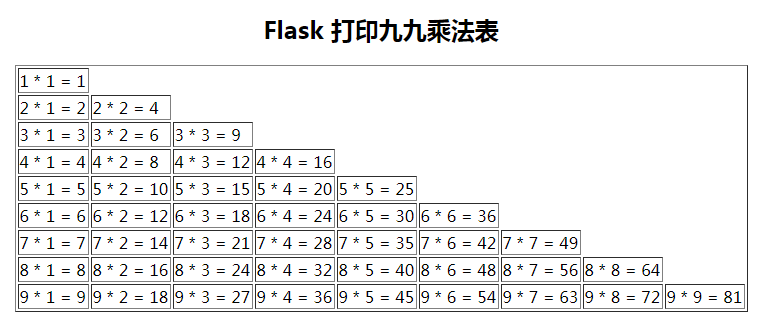
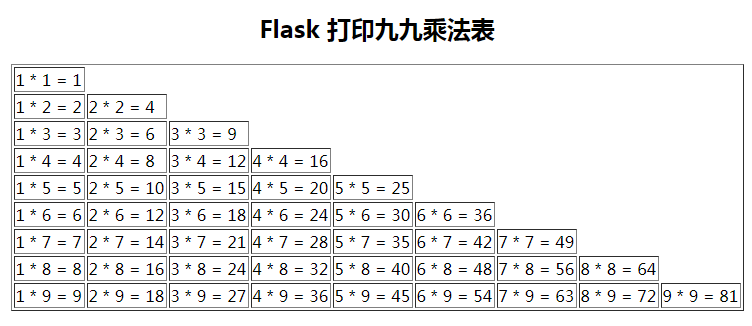
1.Flask自定义过滤器

Changed region(s): [[0.0, 0.1846, 1.0, 0.9846], [0.3364, 0.0308, 0.6729, 0.1538]]

diff --git a/2.Flask打印九九乘法表/templates/index.html b/2.Flask打印九九乘法表/templates/index.html
@@ -10,7 +10,7 @@
     {% for i in range(1,10) %}
     <tr>
         {% for j in range(1,i+1) %}
-        <td> {{ "%s * %s = %s"|format(i,j,i*j) }} </td>
+        <td> {{ "%s * %s = %s"|format(j,i,i*j) }} </td>
         {% endfor %}
     </tr>
     {% endfor %}
